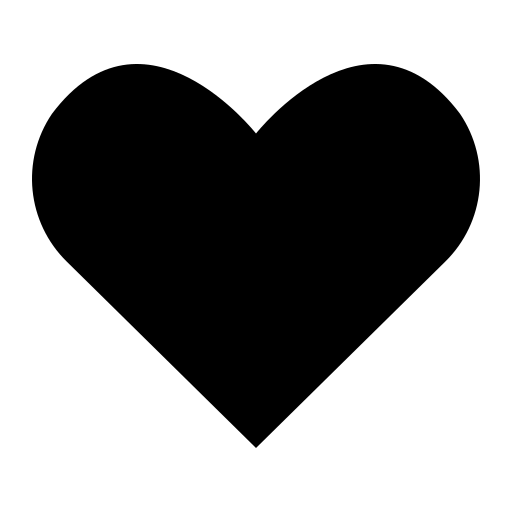
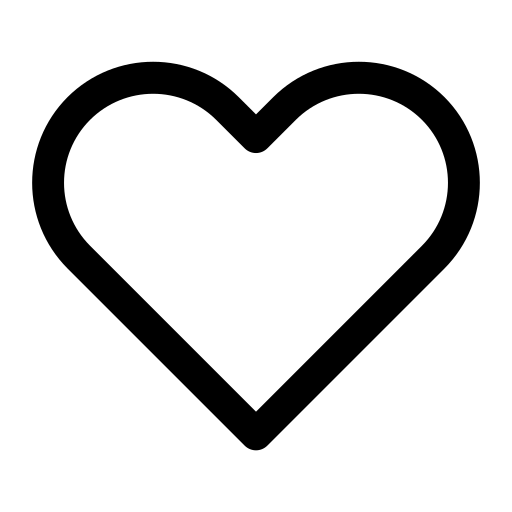
feat:: addind context and hooks

diff --git a/src/routes.js b/src/routes.js
@@ -1,6 +1,7 @@
 import Container from "components/Container";
 import Footer from "components/Footer";
 import Header from "components/Header";
+import FavoritesProvider from "contexts/Favorites";
 import Favorites from "pages/Favorites";
 import Home from "pages/Home";
 import { BrowserRouter, Route, Routes } from "react-router-dom";
@@ -8,15 +9,17 @@ import { BrowserRouter, Route, Routes } from "react-router-dom";
 export default function AppRoutes ()
 {
   return (
-  <BrowserRouter>
-    <Header/>
-        <Container>
+    <BrowserRouter>
+      <Header />
+      <Container>
+          <FavoritesProvider>
             <Routes>
-                <Route path="/" element={<Home/>}> </Route>
-                <Route path="/favorites" element={<Favorites/>}> </Route>
+                <Route path="/" element={<Home />}></Route>
+                <Route path="/favorites" element={<Favorites />}></Route>
             </Routes>
-        </Container>
-      <Footer/>
-  </BrowserRouter>
+         </FavoritesProvider>
+      </Container>
+      <Footer />
+    </BrowserRouter>
   );
 }

diff --git a/src/components/Card/index.js b/src/components/Card/index.js
@@ -1,12 +1,25 @@
+import { useFavoriteContext } from "contexts/Favorites";
 import styles from "./Card.module.css";
 import FavIcon from "./favorite.png";
+import unFavIcon from "./unfavorite.png";
 
-export default function Card({ id, title, imagem }) {
+export default function Card({ id, nome, imagem }) {
+  const { favorite, addFavorite } = useFavoriteContext();
+  const isFavorite = favorite.some((fav) => fav.id === id);
+  const icon = isFavorite ? FavIcon : unFavIcon;
+
   return (
     <div className={styles.container}>
-      <img src={imagem} alt={title} className={styles?.cover} />
-      <h2> {title} </h2>
-      <img src={FavIcon} alt="Favoritar video" className={styles?.favorites} />
+      <img src={imagem} alt={nome} className={styles?.cover} />
+      <h2> {nome} </h2>
+      <img
+        src={icon}
+        alt="Favoritar video"
+        className={styles?.favorites}
+        onClick={() => {
+          addFavorite({ id, nome, imagem });
+        }}
+      />
     </div>
   );
 }

diff --git a/src/contexts/Favorites.js b/src/contexts/Favorites.js
@@ -1,0 +1,41 @@
+import { createContext, useContext, useState } from "react";
+
+export const FavoritesContext = createContext ();
+
+FavoritesContext.displayName = 'Favoritos';
+
+export default function FavoritesProvider ({ children })
+{
+  const [favorite, setFavorite] = useState([]);
+
+  return (
+    <FavoritesContext.Provider value={{favorite, setFavorite}}>
+      {children}
+    </FavoritesContext.Provider>
+  )
+}
+
+export function useFavoriteContext ()
+{
+  const { favorite, setFavorite } = useContext(FavoritesContext)
+
+  function addFavorite (newFavorite)
+  {
+    const favoriteRepeated = favorite.some(item => item.id === newFavorite.id);
+
+    let newList = [...favorite];
+
+    if (!favoriteRepeated) 
+    {
+      newList.push(newFavorite);
+      return setFavorite(newList)
+    }
+
+    newList.splice(newList.indexOf(newFavorite), 1);
+    return setFavorite(newList);
+  }
+
+  return {
+    favorite, addFavorite
+  }
+}

diff --git a/src/pages/Favorites/index.js b/src/pages/Favorites/index.js
@@ -1,6 +1,20 @@
-import styles from './Favorites.module.css'
+import Banner from "components/Banner";
+import styles from "./Favorites.module.css";
+import Title from "components/Title";
+import Card from "components/Card";
+import { useFavoriteContext } from "contexts/Favorites";
 
-export default function Favorites ()
-{
-  
+export default function Favorites() {
+  const { favorite } = useFavoriteContext();
+  return (
+    <div>
+      <Banner image="favoritos" />
+      <Title> <h1> Meus favoritos </h1> </Title>
+      <section className={styles.container}>
+          {favorite.map((fav) => {
+            return <Card {...fav} key={fav.id}/>
+          })}
+      </section>
+    </div>
+  );
 }

diff --git a/src/pages/Favorites/Favorites.module.css b/src/pages/Favorites/Favorites.module.css
@@ -1,0 +1,8 @@
+.container {
+  display: flex;
+}
+
+.container {
+  display: flex;
+  justify-content: space-around;
+}
